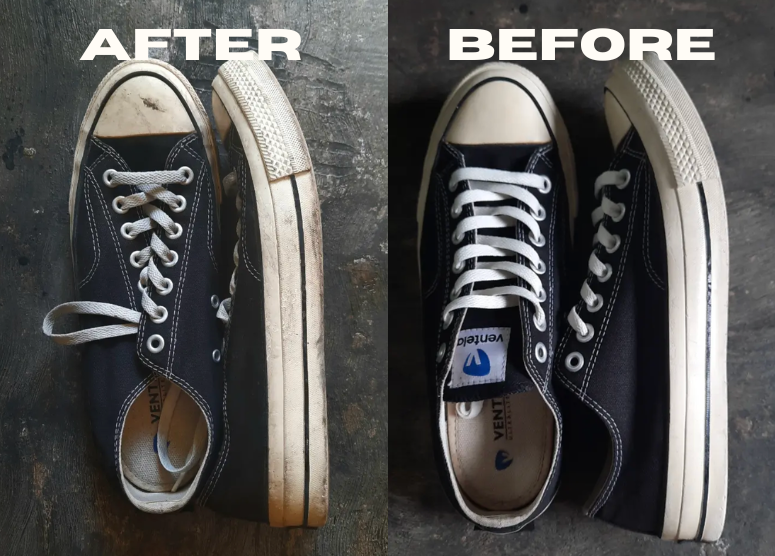
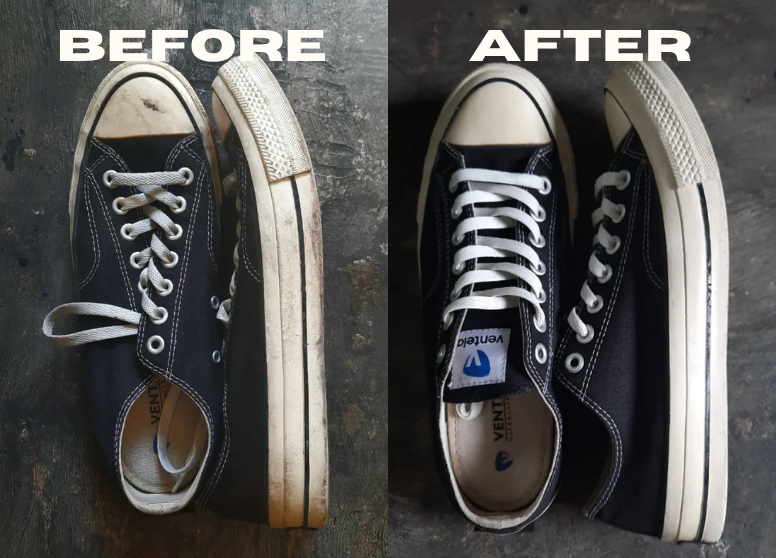
fix

diff --git a/src/components/PricingSection.vue b/src/components/PricingSection.vue
@@ -35,7 +35,7 @@
           </p>
 
           <div class="flex items-baseline mb-8">
-            <span class="text-4xl font-bold text-[#191c1e]"
+            <span class="text-3xl font-bold text-[#191c1e]"
               >Rp {{ plan.price.toLocaleString('id-ID') }}</span
             >
             <span class="text-[#434655] ml-2">{{ plan.unit }}</span>